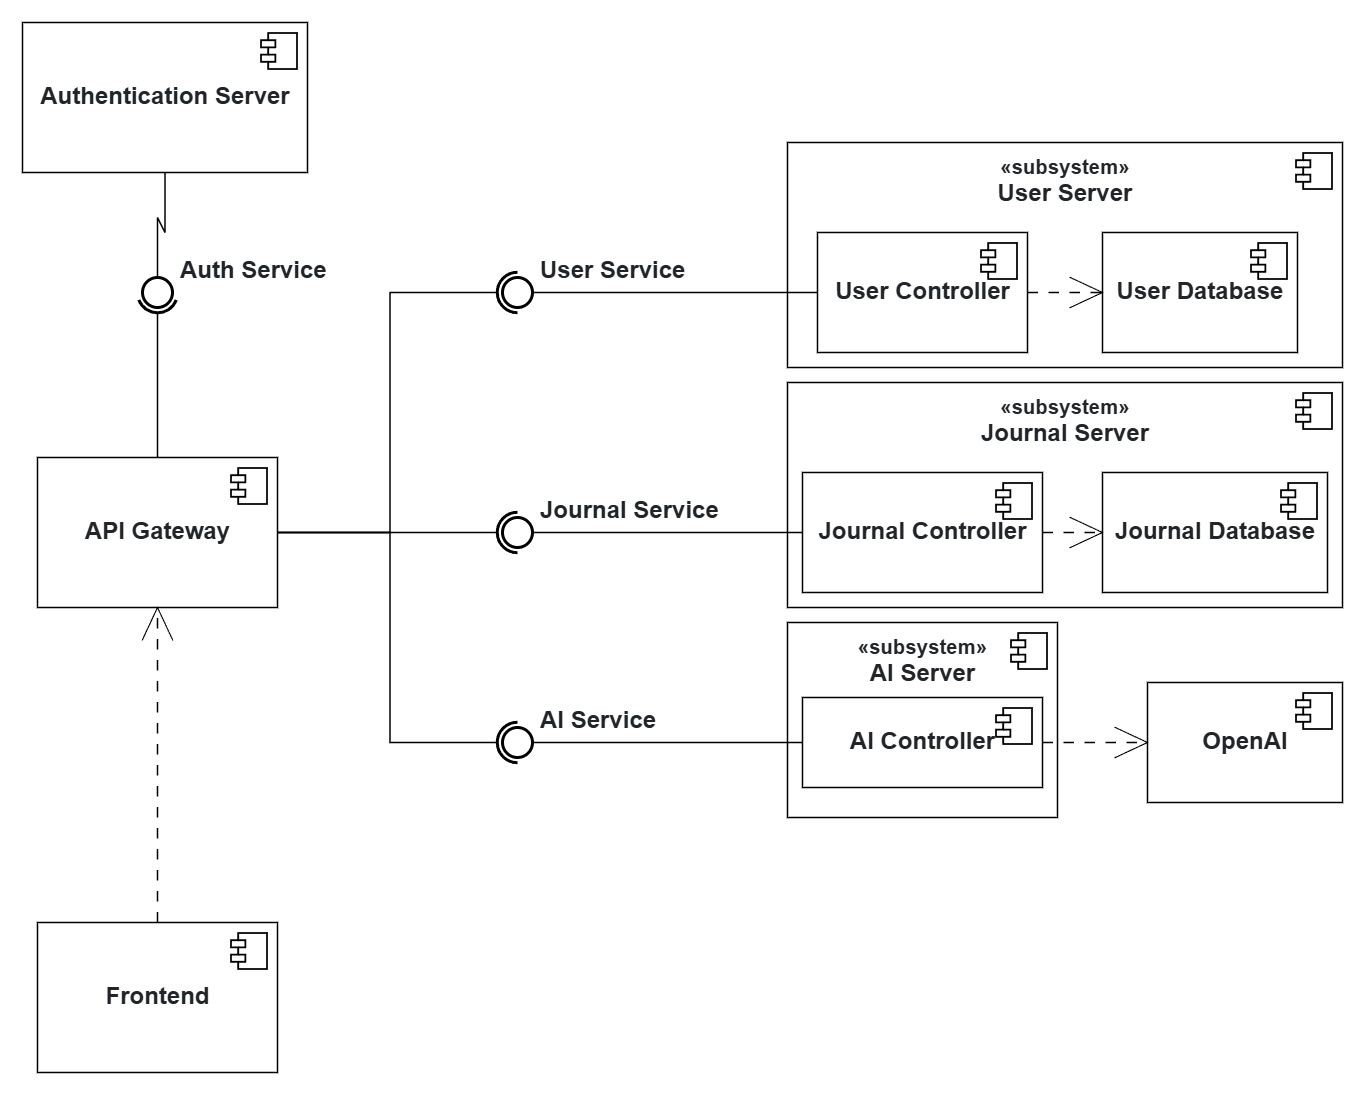
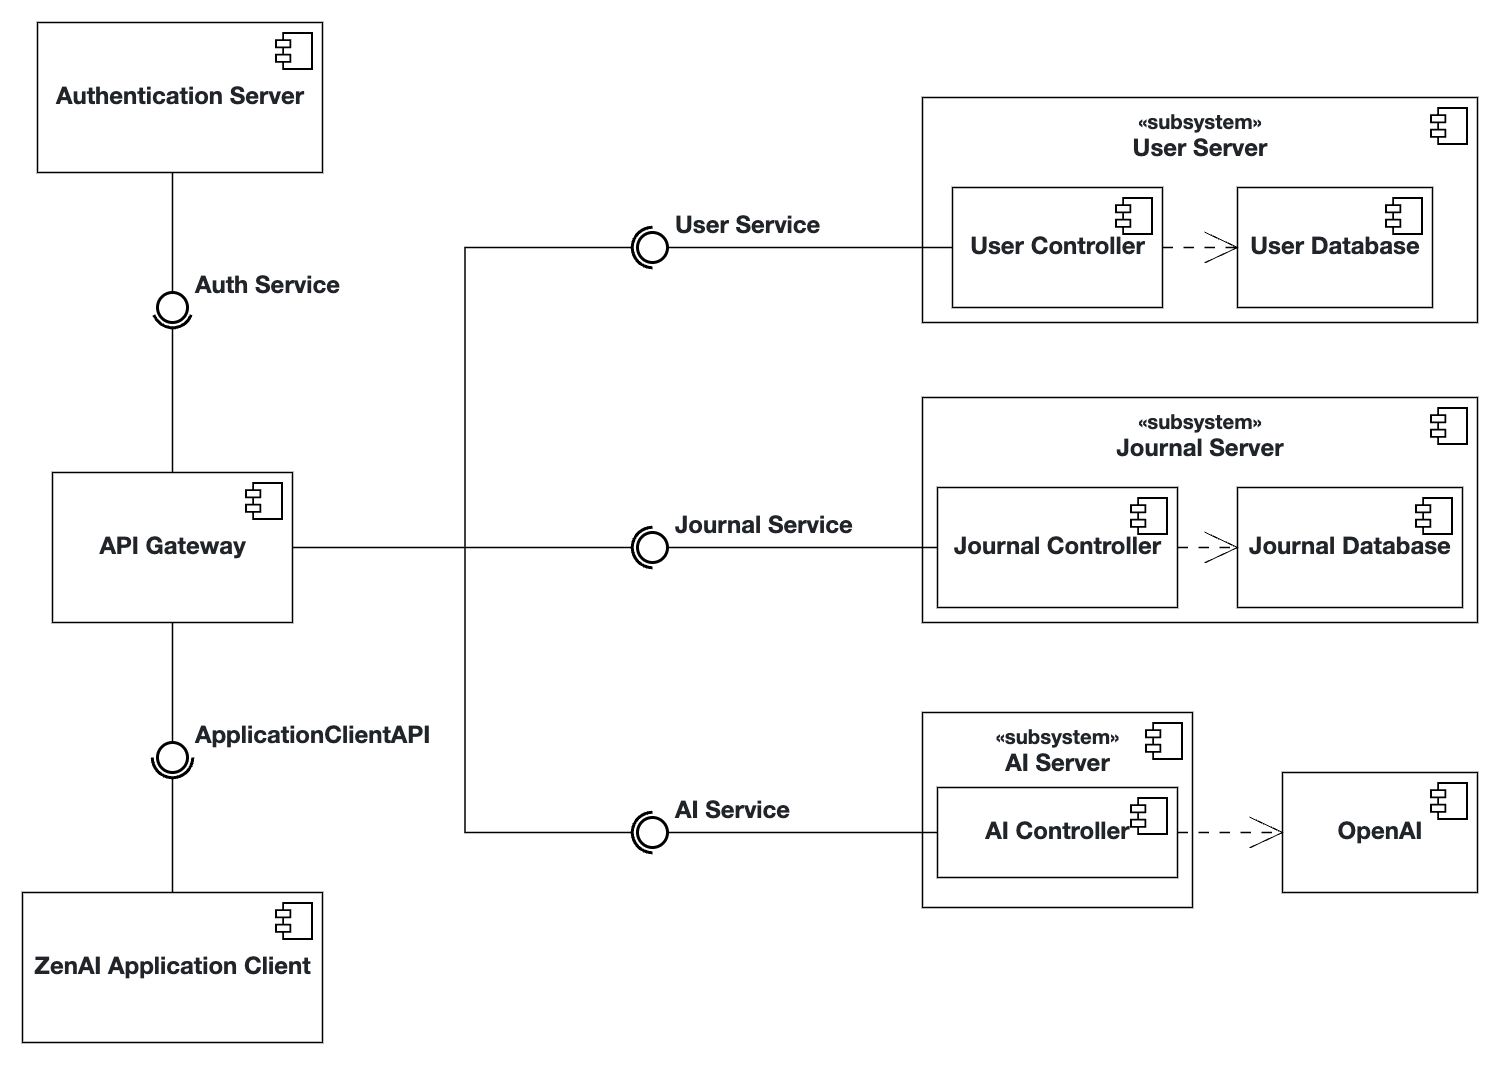
``` Update architecture docs and diagrams
- Added use case, component, and class diagrams to the documentation
- Updated classDiagram.png and componentDiagram.png with new versions
```

diff --git a/docs/system_overview_architecture.md b/docs/system_overview_architecture.md
@@ -77,3 +77,16 @@ Context-Based AI-provider Selection:
 LangChain Usage:
 
 - Enables natural language understanding and summarization pipelines.
+
+## Diagrams
+### Use Case Diagram
+The following diagram illustrates the primary use cases of the ZenAI application, detailing the interactions between the user and the ZenAI application.
+![Use Case Diagram](diagrams/useCaseDiagram.png "Use Case Diagram")
+
+### Component Diagram
+The following component diagram shows the high-level architecture of the ZenAI application, including the main components and their interactions. 
+![Top-Level Design](diagrams/componentDiagram.png "Top-Level Design")
+
+### Class Diagram
+Here we have the preliminary class diagram for the ZenAI application. With adaptability in mind, specifically for the AI agent abstraction, we use the strategy pattern to allow for easy switching between online and offline AI agents based on the requirements stated in the project requirements.
+![Class Diagram](diagrams/classDiagram.png "Class Diagram")
